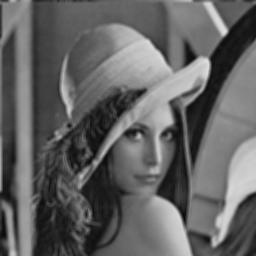
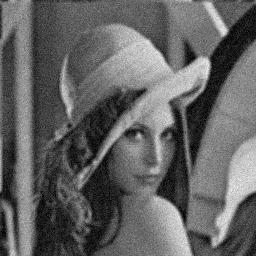
更新图像复原

Changed region(s): [[0.1562, 0.75, 0.1875, 0.7812], [0.0312, 0.6562, 0.0625, 0.6875]]

diff --git a/research/imrestorebase.html b/research/imrestorebase.html
@@ -109,10 +109,21 @@ function clearText(field)
 				</div>
 				<div class="margin_bottom_10"></div>
 				<p>这里计算出来的MSE=2050，虽然图像的边缘变得锐利了，但是图像噪声也放大了。图像噪声越多，为了不过于放大噪声，$\gamma$ 值就要越小，但是$\gamma$ 值越小，去模糊的效果也越差。</p>
-				<p>针对这一情况，另外一种解决方案是迭代求解，</p>
+				<p>针对这一情况，另外一种解决方案是迭代求解：首先根据噪声图像来获得原图像的初始估计，然后，根据迭代方程来更新对原图像的估计。可以用方程表达如下：$${\hat f_0}(x,y) = \lambda g(x,y) \label{ref2},$$ $${\hat f_{k + 1}}(x,y) = {\hat f_k}(x,y) + \lambda (g(x,y) - {\hat f_k}(x,y) * b(x,y))\label{ref3}$$</p>
+				<p>(\ref{ref2}) 式中，${\hat f_0}(x,y)$是对原始图像的初始估计。当估计的值 ${\hat f_k}$ 与原图相似时，${\hat f_k}$ 与 $b(x,y)$ 的卷积的结果将会与 $g(x,y)$ 接近，使得 (\ref{ref3}) 式右边第二项接近于0，从而实现收敛。$\lambda$控制收敛速度。将上面两式在频率域表示为：$${{\hat F}_0}(x,y) = \lambda G(x,y),$$ $${\hat F_{k + 1}}(u,v) = {\hat F_k}(u,v) + \lambda (G(u,v) - {\hat F_k}(x,y)B(x,y))$$</p>
 				
-				<p></p>
+				<p>解出上式中的 ${\hat F_k}(u,v)$ 可得：$$\displaylines{
+				{{\hat F}_{k + 1}}(u,v) = \lambda (G(u,v)[1 + (1 - \lambda B(u,v) +  \cdots  + {(1 - \lambda B(u,v))^k}] \cr 
+				= {{G(u,v)} \over {B(u,v)}}[1 - {(1 - \lambda B(u,v))^{k + 1}}] \cr} $$</p>
+				<p>当$k$趋向无穷大时，${(1 - \lambda B(u,v))^{k + 1}}$趋向于0，所获得的结果就与逆滤波器一样了。在实现该滤波器的时候，$\lambda$ 的取值需满足$|1 - \lambda B(u,v)|<1 $。我们取$\lambda = 0.1$，迭代150次，结果如下：</p>
 				
+				<div style="text-align:center">
+					<a href="images/imrestore/orig.jpg" data-lightbox="image-set" data-title="原图"><img src="images/imrestore/orig.jpg" height="190"/></a>
+					<a href="images/imrestore/blur_noise.jpg" data-lightbox="image-set" data-title="模糊+噪声图像"><img src="images/imrestore/blur_noise.jpg" height="190"/></a>
+					<a href="images/imrestore/deblur_noise_ite_inv_res.jpg" data-lightbox="image-set" data-title="迭代逆滤波结果"><img src="images/imrestore/deblur_noise_ite_inv_res.jpg" height="190"/></a>
+				</div>
+				<div class="margin_bottom_10"></div>
+				<p>上图中，同样最左边是原图，中间是对原图进行模糊，同时加上方差为10的高斯噪声，最右边是对中间图像进行迭代滤波器获得的结果，其中MSE=1171，比直接逆滤波要小。因此，在有噪声的情况下，迭代逆滤波的结果是要好于直接逆滤波的。</p>
 				
 				<div class="margin_bottom_10"></div>
 				<div class="header_05">维纳滤波</div>

diff --git a/research/code/wiener/invH3.m b/research/code/wiener/invH3.m
@@ -4,18 +4,22 @@ N=256;
 lambda=0.1;
 % read image
 f = double(imread('lenna.tif'));
-figure;imshow(x,gray(256));title('orig');
+figure;imshow(f,gray(256));title('orig');
 
 % blur
 F=fft2(f);
 b=ones(4,4)/16;
 B=fft2(b,N,N);
 G=F.*B;
-figure;imshow(abs(ifft2(G)),gray(256));title('blured');
+%add noise
+g=ifft2(G)+10*randn(N,N);
+G=fft2(g);
 
+figure;imshow(abs(ifft2(G)),gray(256));title('blured');
+imwrite(uint8(ifft2(G)),'blur.jpg');
 figure;
 K=lambda*G;
-for l=1:1500,
+for l=1:150,
   if mod(l,25)==0
     lambda=lambda/5;
   end
@@ -25,6 +29,9 @@ for l=1:1500,
      l 
      sum(sum(A))
      imshow(abs(ifft2(K)),gray(256));title('deblured');
-     pause
+     %pause
   end
 end
+im=abs(ifft2(K));
+MSE = mean(mean((double(im) - double(f)).^2,2),1)
+imwrite(uint8(im),'deblur_ite_inv_res.jpg');

diff --git a/research/code/wiener/invH.m b/research/code/wiener/invH.m
@@ -22,7 +22,7 @@ I=G.*H;
 im=abs(ifft2(I));
 
 figure; imshow(im,gray(256));title('blur Result');
-imwrite(uint8(im),'blur_res.jpg');
+imwrite(uint8(im),'blur_inv.jpg');
 
 MSE = mean(mean((double(im) - double(f)).^2,2),1)
 
@@ -45,6 +45,6 @@ I=G.*H;
 im=abs(ifft2(I));
 
 figure; imshow(im,gray(256));title('blur&noise Result');
-imwrite(uint8(im),'blur_noise_res.jpg');
+imwrite(uint8(im),'blur_noise_invres.jpg');
 
 MSE = mean(mean((double(im) - double(f)).^2,2),1)
